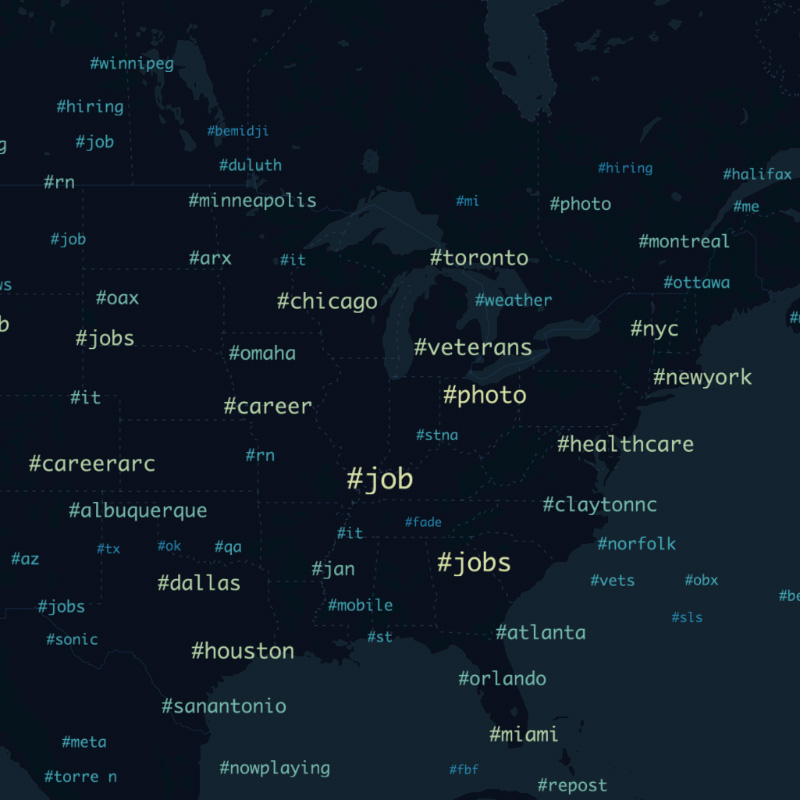
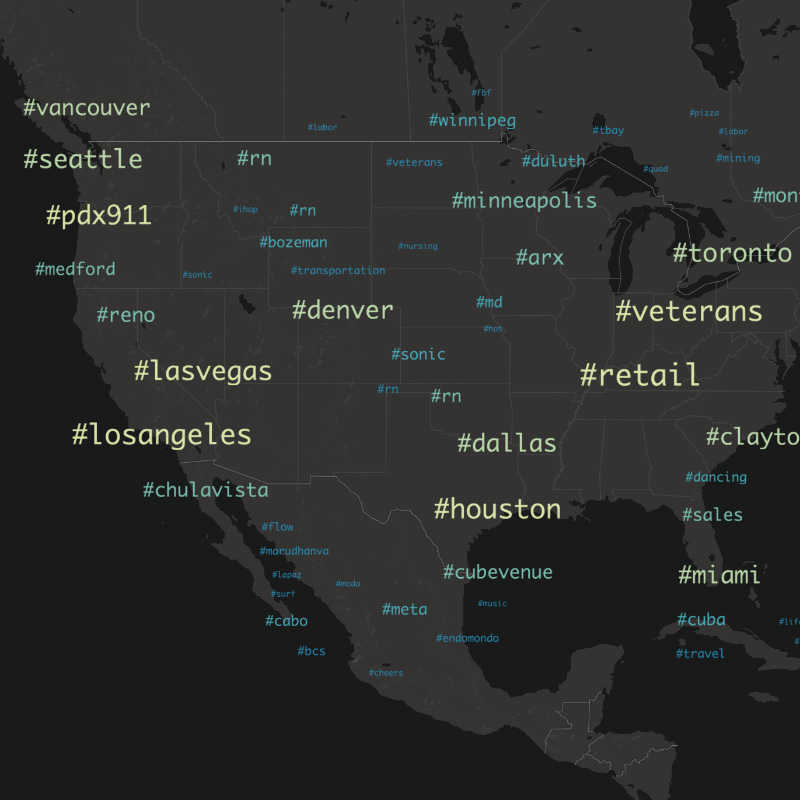
tweaks

diff --git a/examples/tagmap/deckgl-overlay.js b/examples/tagmap/deckgl-overlay.js
@@ -23,14 +23,19 @@ export default class DeckGLOverlay extends Component {
       ? new TagmapLayer({
           id: 'twitter-topics-tagmap',
           data,
-          maxFontSize: fontSize
+          getLabel: x => x.label,
+          getPosition: x => x.coordinates,
+          minFontSize: 14,
+          maxFontSize: fontSize * 2 - 14
         })
       : new TextLayer({
           id: 'twitter-topics-raw',
           data,
           getText: d => d.label,
+          getPosition: x => x.coordinates,
           getColor: d => DEFAULT_COLOR,
-          sizeScale: fontSize / 64
+          getSize: d => 20,
+          sizeScale: fontSize / 20
         });
 
     return <DeckGL {...viewport} layers={[layer]} />;

diff --git a/examples/tagmap/app.js b/examples/tagmap/app.js
@@ -9,7 +9,7 @@ import {json as requestJson} from 'd3-request';
 // Set your mapbox token here
 const MAPBOX_TOKEN = process.env.MapboxAccessToken; // eslint-disable-line
 // sample data
-const FILE_PATH = 'https://rivulet-zhang.github.io/dataRepo/tagmap/hashtags10k.json';
+const FILE_PATH = 'https://rivulet-zhang.github.io/dataRepo/tagmap/hashtags100k.json';
 // mapbox style file path
 const MAPBOX_STYLE =
   'https://rivulet-zhang.github.io/dataRepo/mapbox/style/map-style-dark-v9-no-labels.json';

diff --git a/website/src/components/demos/text-demo.js b/website/src/components/demos/text-demo.js
@@ -19,7 +19,7 @@ export default class TextDemo extends Component {
   static get parameters() {
     return {
       cluster: {displayName: 'Dynamic Cluster', type: 'checkbox', value: true},
-      fontSize: {displayName: 'Max Font Size',
+      fontSize: {displayName: 'Font Size',
         type: 'range', value: 32, step: 1, min: 20, max: 80}
     };
   }
